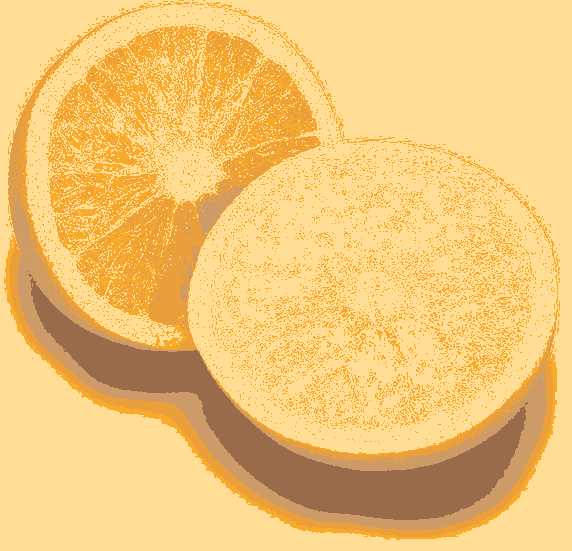
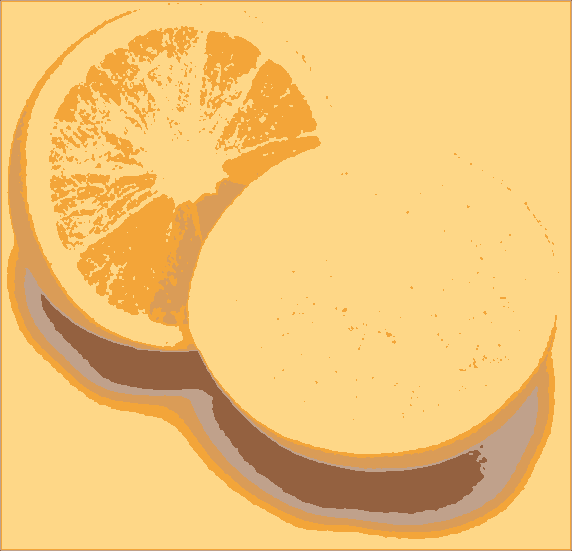
asd

diff --git a/Lab3/kmeans_segm.m b/Lab3/kmeans_segm.m
@@ -2,17 +2,31 @@ function [segmentation, centers] = kmeans_segm(image, K, L, seed)
     if nargin < 3
         seed = 1337; 
     end
+    threshold = 0;%100.0;
     rng(seed);
     [rows, cols, channels] = size(image);
     imgvec = reshape(image, rows*cols, channels);
+    [colors, ~, ~] = unique(imgvec', 'rows');
+    colors = colors';
+    [colorsLen, ~] = size(colors);
     centers = zeros(K, channels);
-    for i = 1:K
-       r = randi(rows);
-       c = randi(cols);
-       centers(i,:) = image(r,c,:);
+    i = 1;
+    iters = 0;
+    while i <= K && iters < 500
+       r = randi(colorsLen);
+       new = reshape(colors(r,:), [1,channels]);
+       %fprintf("%d, %d, %d, \n", new);
+       if checkDistance(new, centers(1:i-1,:), threshold)
+           centers(i,:) = new;
+           
+           i = i + 1;
+       end
+       iters = iters + 1;
     end
+    
     segmentation = zeros(1,length(imgvec));
     changes = zeros(L);
+    terminationI = L;
     for i = 1:L
         change = 0;
         clusterSums = zeros(K, channels);
@@ -29,24 +43,41 @@ function [segmentation, centers] = kmeans_segm(image, K, L, seed)
         end
         changes(i) = change;
         for c = 1:K
-            if clusterCounters(c) ~= 0
+            if clusterCounters(c) > 1000
                 centers(c,:) = clusterSums(c,:) ./ clusterCounters(c);
+            else
+                iter = 0;
+                while iter < 500
+                    r = randi(colorsLen);
+                    new = reshape(colors(r,:), [1,channels]);
+                   % fprintf("%d, %d, %d, \n", new);
+                    if checkDistance(new, centers, threshold)
+                        centers(c,:) = new;
+                        break;
+                    end
+                    iter = iter + 1;
+                end
+                %fprintf("New center at %d, %d, %d \n",centers(c,:))
             end
+        end
+        if change == 0
+            terminationI = i;
+            break;
         end
     end
     for p = 1:length(imgvec)
         segmentation(p) = assignPixel(imgvec(p), centers);
     end
-    plot(changes);
+    %plot(changes(1:terminationI));
     segmentation = reshape(segmentation, rows, cols);
 end
 
 function index = assignPixel(pixel, clusters)
-    distance = pdist2(pixel, clusters(1));
+    distance = pdist22(pixel, clusters(1));
     index = 1;
     [rows, ~] = size(clusters);
     for i = 2:rows
-        newDist = pdist2(pixel, clusters(i));
+        newDist = pdist22(pixel, clusters(i));
         if  newDist < distance
            index = i;
            distance = newDist;

diff --git a/Lab3/bildat_lab3/kmeans_example.m b/Lab3/bildat_lab3/kmeans_example.m
@@ -1,6 +1,6 @@
 K = 5;               % number of clusters used
-L = 10;              % number of iterations
-seed = 14;           % seed used for random initialization
+L = 40;              % number of iterations
+seed = 1;     % seed used for random initialization
 scale_factor = 1.0;  % image downscale factor
 image_sigma = 1.0;   % image preblurring scale
 
@@ -8,8 +8,8 @@ I = imread('orange.jpg');
 I = imresize(I, scale_factor);
 Iback = I;
 d = 2*ceil(image_sigma*2) + 1;
-h = d;%fspecial('gaussian', [d d], image_sigma);
-I = I;%imfilter(I, h);
+h = fspecial('gaussian', [d d], image_sigma);
+I = imfilter(I, h);
 
 tic
 [ segm, centers ] = kmeans_segm(I, K, L, seed);

diff --git a/Lab3/bildat_lab3/mean_shift_example.m b/Lab3/bildat_lab3/mean_shift_example.m
@@ -14,8 +14,8 @@ I = imfilter(I, h);
 segm = mean_shift_segm(I, spatial_bandwidth, colour_bandwidth, num_iterations);
 Inew = mean_segments(Iback, segm);
 I = overlay_bounds(Iback, segm);
-imwrite(Inew,'result/meanshift1.png')
-imwrite(I,'result/meanshift2.png')
+imwrite(Inew,'bildat_lab3/result/meanshift1.png')
+imwrite(I,'bildat_lab3/result/meanshift2.png')
 subplot(1,2,1); imshow(Inew);
 subplot(1,2,2); imshow(I);
 

diff --git a/Lab3/checkDistance.m b/Lab3/checkDistance.m
@@ -1,0 +1,11 @@
+function check = checkDistance(new,clusters, threshold)
+    [cols, ~] = size(clusters);
+    check = true;
+    for i = 1:cols
+        if pdist22(new, clusters(i,:)) < threshold
+            check = false;
+            break;
+        end
+    end
+end
+

diff --git a/Lab3/pdist22.m b/Lab3/pdist22.m
@@ -1,4 +1,4 @@
-function dist = pdist2(a, b)
+function dist = pdist22(a, b)
     if (size(a) ~= size(b))
        error('Dimension mismatch'); 
     end
@@ -8,4 +8,3 @@ function dist = pdist2(a, b)
     end
     dist = sqrt(sum);
 end
-
